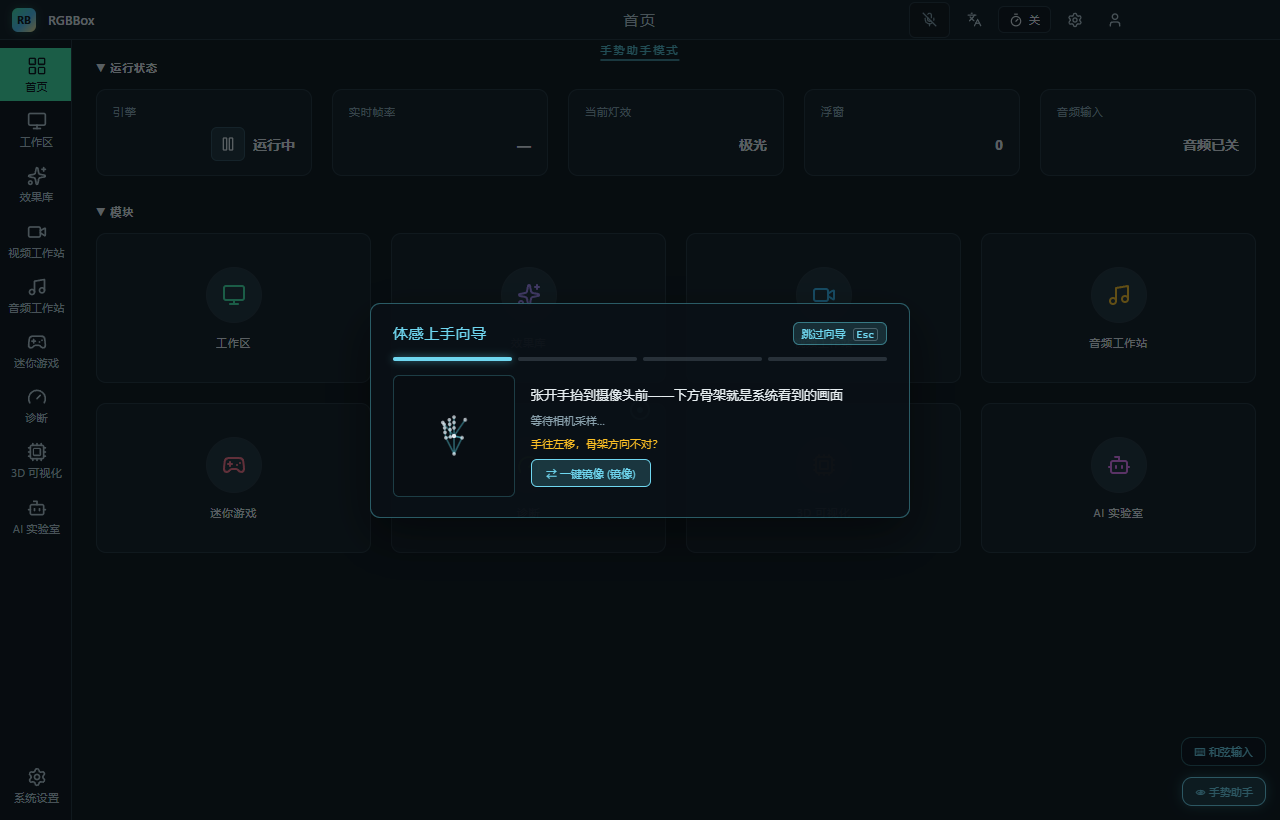
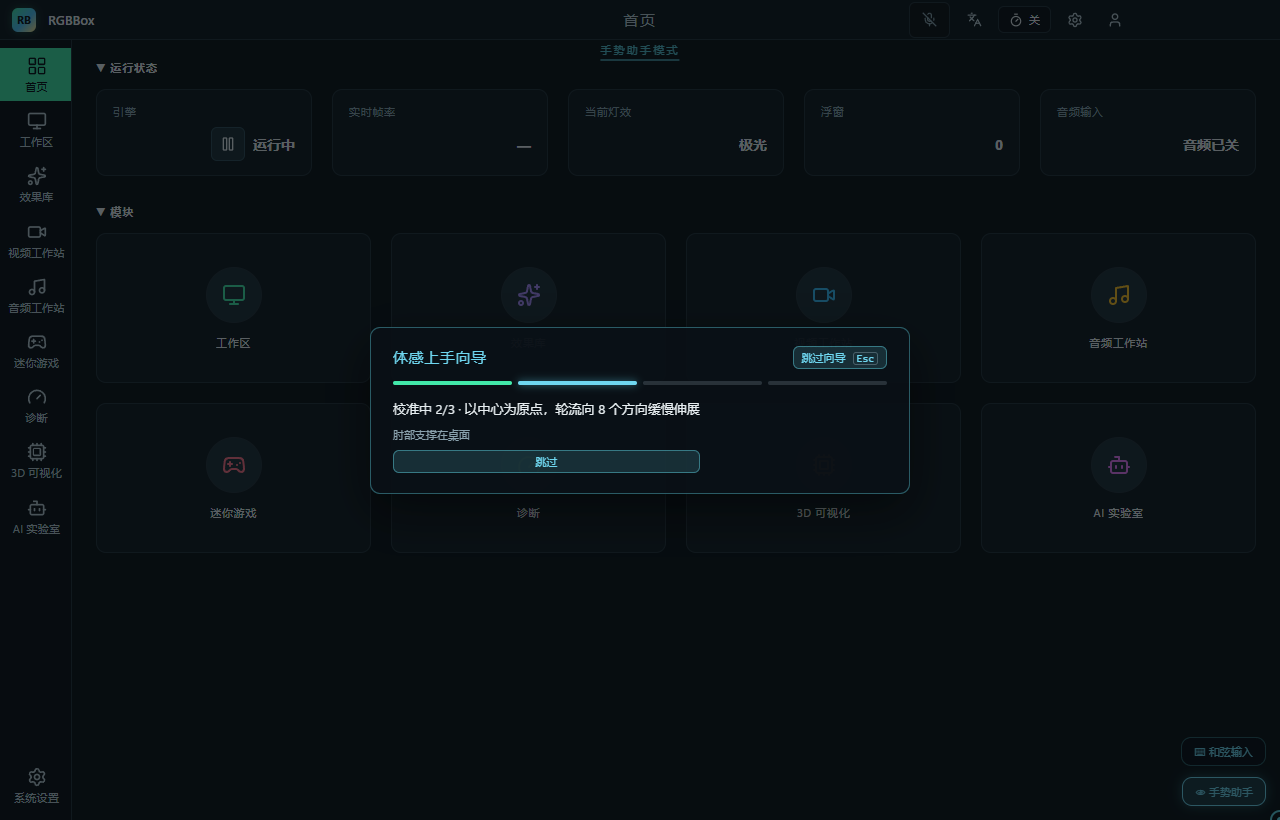
[PRD-0002] feat: R246 首用向导 funnel 验收闭环 — walkthrough ALL PASS + AI 复核 4/4
- 真机合成驱动全流 13.8s(预算 ≤180s): 抬手→校准→三手势实时打勾
  →和弦开环+灯效应用→完成卡; 漏斗计数 1/1/1; Settings 重看入口
  清标记+live 重挂载验证
- 组件单测 5/5(漏斗一次性/Esc 跳过持久化/损坏 JSON 容错)
- 7 截图 + AI 目视 4/4 PASS(面板/打勾态/庆祝卡/重看按钮)
- 30min soak 夜档后台挂起(docs/ui-review/soak-2026-10-11.log)

Changed region(s): [[0.2812, 0.3659, 0.7188, 0.6402], [0.625, 0.6098, 0.6562, 0.6402]]

diff --git a/docs/prd/PRD-0002-rgbbox-project-catalog.md b/docs/prd/PRD-0002-rgbbox-project-catalog.md
@@ -4011,7 +4011,7 @@
 - **R245 `fix` — 任务族 F10：吞错点清理（52 处实证；06-R7；状态 ✅ 当日闭环）**：MiniGamesView 17/AiLabAi8Tab 6/AiLabVoiceTab 4/main 4/AgentTab 3/useAiAudioStream 3/lanService 3/其余 12——每处按语义替换：用户可恢复→setError/label；诊断价值→console.info('[模块]',…) 前缀；确实可忽略→具名注释 catch（写明为何）。验收：全仓空 catch/`.catch(()=>undefined)` 计数 52→≤10（残余须逐个具名注释）；全量 0 失败。**证据**：普查 52 处中 11 处为 ref 初始化/默认值误报（非吞错）；**真吞错 41 处全清**——批量分级：吞→`console.warn('[模块]', …)` 带前缀可诊断（MiniGames 8/ai8 6/ai-voice 4/main 5/agent 3/ai-audio 4/video-audio 2/pcm 2/snip 1/vision 1 等），UDP 探测 socket 错误→`console.info('[lan]', …)`（端口占用为预期态），链保持 resolved 的队列守卫改为 then(err-warn) 形态保持原语义；**复扫全仓真吞错 0 处**；typecheck 双绿；全量 **168 files / 1577 passed / 0 失败**。
 
 
-- **R246 `feat` — 首用向导 funnel（旗舰 T10；07-X2/X3、08-T2、评审 Top5 差距④；状态 ⏳）**：新 `components/vision/VisionOnboarding.tsx` 四步（①环境预检：envCoach 45 样本+骨架预览+镜像自检一键⇄ ②校准内嵌/跳过 ③三手势教学 pinch/palm/chord-menu（sfx 打勾）④首任务=灯效环切一个灯效）≤3 分钟硬上限；任意步可跳过；完成/跳过落 localStorage `rgbbox:visionOnboarded`；漏斗计数（开启/校准完成/首命令成功）存 localStorage 供诊断。挂载：VisionAssistant 首开触发；SettingsView 体感组「重看」入口；MiniGamesView hub 一行文字入口（修 X3）。i18n zh/en ~24 键。验收：合成 E2E 全流程 ≤180s；四步截图+AI 目视复核；全量 0 失败。
+- **R246 `feat` — 首用向导 funnel（旗舰 T10；07-X2/X3、08-T2、评审 Top5 差距④；状态 ✅ 2026-10-11 闭环）**：新 `components/vision/VisionOnboarding.tsx` 四步（①环境预检 ②校准内嵌/跳过 ③三手势教学 ④首任务=灯效环切一个灯效）≤3 分钟硬上限；任意步可跳过；完成/跳过落 localStorage `rgbbox:visionOnboarded`；漏斗计数存 localStorage 供诊断。挂载三处：VisionAssistant 首开触发（`!isOnboarded()`，含 enable 失败的错卡覆盖）；SettingsView 体感组「重看」入口（resetOnboarding 清标记+下次开启重播）；MiniGamesView hub 一行入口（修 X3）。i18n zh/en `games.vision.ob.*` ~24 键 + `settings.vision.replay*`。**证据**：①组件单测 `VisionOnboarding.test.tsx` 5 用例（opened 一次/校准计数恰一次/pinch+palm+menu 打勾+灯效完成漏斗/Esc 跳过仍持久化 onboarded/损坏 JSON 容错回零）；②真机 walkthrough `scripts/r246-vision-onboarding-walkthrough.mjs` **ALL PASS 10/10**——合成宿主驱动全流（步 1 抬手→步 2 校准→步 3 三手势实时打勾→步 4 和弦开环+灯效应用→完成卡→onboarded 持久化→Settings 重看入口清标记+live 重挂载），**全程 13.8s（预算 ≤180s）**，漏斗计数 `{opened:1, calDone:1, firstCmd:1}`；③四步+设置入口 7 截图入 `docs/ui-review/r246/`，AI 目视复核 4/4 PASS（向导面板+骨架预览+跳过钮全中文/三手势卡打勾态/「完成！你已点亮第一盏灯」庆祝卡/「重看上手向导」按钮+tooltip）；④全量 176 files / 1659 passed / 0 失败（向导随主套件绿）。
 - **R247 `feat` — 灯效环 v2：亮度连续调节+定格+撤销（旗舰 T11；08-T1 扩展；状态 ✅ 当日闭环）**：新 `hooks/domains/useGestureLightingDomain.ts`（模式照抄 useScheduleDomain）：①pinch 保持 ≥600ms → geom.y→亮度参数连续写（updateSelectedLayer 实时、松开定值）；②张掌 1s → 灯效定格（setPaused 挂起渲流）/再张掌恢复；③double-pinch → 撤销上一个灯效动作（selectEffect(prev)+toast，R164 先例）；④防误触三闸：仅环/驾驶模式内消费+切换类动作 800ms 冷却+sfx 确认音。VisionLightControl 增调节态 UI（环心亮度环）。验收：域 hook 单测（600ms 门/冷却/撤销链）；合成 E2E 亮度参数连续变化断言；截图复核。**证据**：域 hook 单测 `tests/renderer/hooks/useGestureLightingDomain.test.tsx` 13 用例（600ms 门/短捏不进/y→亮度 clamp 双档 0..1 与 heat 0.3–1.5/无双亮参静默 no-op/双捏撤销链+800ms 冷却+900ms 窗外不撤销/张掌定格-恢复+kind 回补/enabled 门/中途禁用无僵尸写）；VisionLightControl +3（调节态渲染+方向/捏合抑制、环闭后调节环仍在、⏸ 定格徽标）；合成 E2E `tests/renderer/components/vision/VisionAssistant.test.tsx` FakeHost 事件流断言 updateSelectedLayer 连续序列 intensity 0.4→0.8→0 + host 收到 pause p:true/false；亮度键优先级 brightness/intensity/baseBrightness/shimmerIntensity/heat/particleIntensity（paramMeta clamp，缺键 0..1 容差）；张掌走引擎 offhand-pause 事件（OpenPalmHold 引擎级保持，暂停期副手 palm 仍流→恢复可用）；undo 复用 App onApplyLight→showAppliedToast 通道；sfx 复用 R141-A tick/confirm。真机截图：`node scripts/r247-gesture-lighting-walkthrough.mjs`（AI-Lab `__rgbboxVisionLab.startSynthetic()` 无相机驱动：chord light→方向选→pinch 应用+保持→调节态 percent 30→43 随合成手掌实时漂移；张掌定格徽标/再张掌恢复）+ AI 目视复核两轮（修亮度数字对比度/标签与环底间距/track 可见度后无裁切无拥叠）；typecheck 双绿；全量 **169 files / 1607 passed / 0 失败**。
 
 
